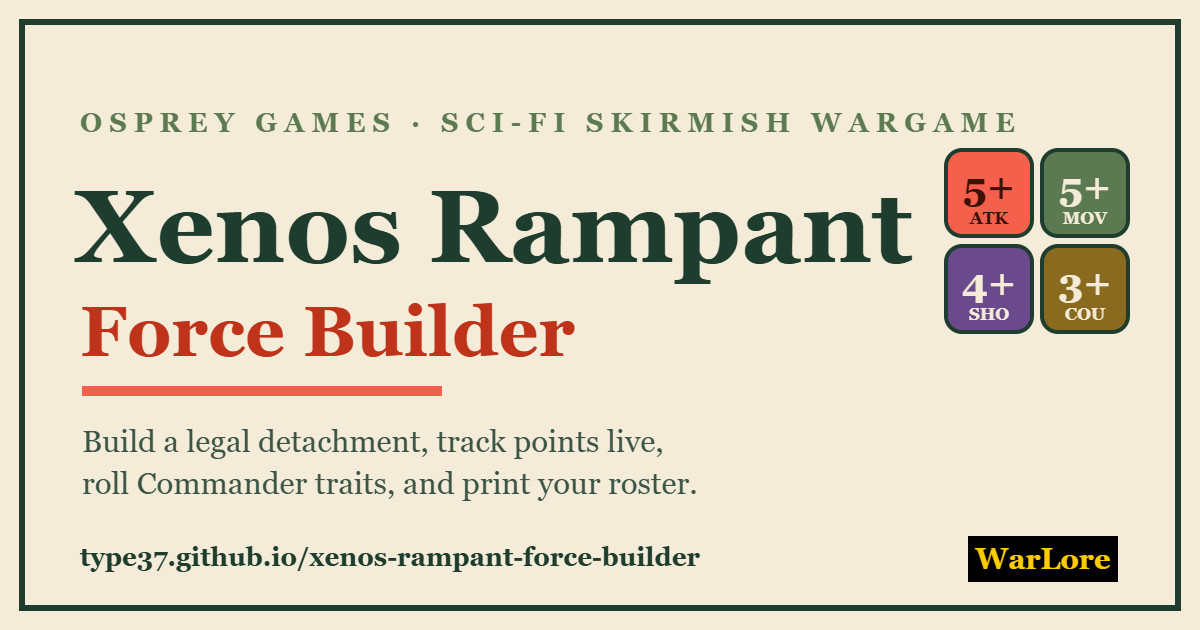
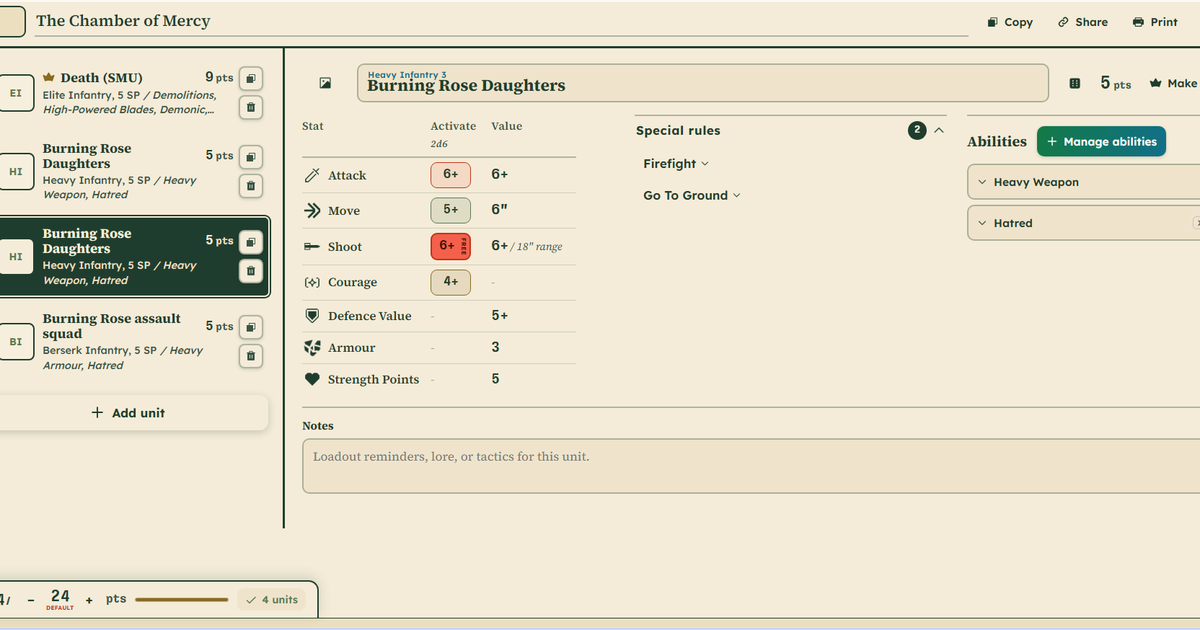
Fix Anvil preset images path; trim/zoom emblem picker; offer book collections
- Move the four Anvil detachment images to public/anvil/ so the paths the app
  builds actually resolve; the preset cards showed empty boxes before.
- Emblem picker: remove nine emblems, zoom the icons about 2x, drop the hover
  tooltips, and make the picker taller so the full set scrolls.
- "Save to setting" now offers the five rulebook genre settings (Weird War,
  Urban Fantasy, Five Minutes, Post-Apocalypse, Space Opera) as ready collections
  alongside any you have already used.

Changed region(s): [[0.0, 0.0, 1.0, 1.0], [0.5242, 0.2413, 0.5858, 0.2714]]

diff --git a/src/App.jsx b/src/App.jsx
@@ -143,6 +143,8 @@ import {
 import { SETTINGS } from "./premade.js";
 /* settings flagged hidden or comingSoon are wired up but kept out of the preset picker */
 const PRESET_SETTINGS = SETTINGS.filter((s) => !s.hidden && !s.comingSoon);
+/* the rulebook's genre settings, offered as ready-made collections to save into */
+const BOOK_COLLECTIONS = SETTINGS.filter((s) => !["anvil", "grimdark"].includes(s.id)).map((s) => s.name.split(":")[0]);
 import { ALL_GENRES, randomName } from "./factions.js";
 import { RULES_REFERENCE, RULES_CATS } from "./rules.js";
 
@@ -177,12 +179,10 @@ const Sword = mk(icSword), Move = mk(icMove), Shoot = mk(icShoot), Fire = mk(icF
 const DETACH_ICON_LIST = [
   { id: "crossed-swords", C: mk(giCrossedSwords) }, { id: "spartan-helmet", C: mk(giSpartan) },
   { id: "eagle-emblem", C: mk(giEagle) }, { id: "checked-shield", C: mk(giCheckedShield) },
-  { id: "spiked-shield", C: mk(giSpikedShield) }, { id: "shield-echoes", C: mk(giShieldEchoes) },
   { id: "skull-crossed-bones", C: mk(giSkullCross) }, { id: "death-skull", C: mk(giDeathSkull) },
   { id: "crown", C: mk(giCrown) }, { id: "laurel-crown", C: mk(giLaurel) },
   { id: "wolf-head", C: mk(giWolf) }, { id: "dragon-head", C: mk(giDragon) },
-  { id: "alien-bug", C: mk(giAlien2) }, { id: "robot-golem", C: mk(giRobot) },
-  { id: "battle-tank", C: mk(giTank) }, { id: "rocket-thruster", C: mk(giRocket) },
+  { id: "battle-tank", C: mk(giTank) },
   { id: "crosshair", C: mk(giCrosshair) }, { id: "biohazard", C: mk(giBiohazard) },
   { id: "star-formation", C: mk(giStars) }, { id: "mailed-fist", C: mk(giFist) },
   { id: "angel-wings", C: mk(giWings) }, { id: "gears", C: mk(giGears) },
@@ -194,11 +194,10 @@ const DETACH_ICON_LIST = [
   { id: "elf-helmet", C: mk(giElfHelm) }, { id: "knight-banner", C: mk(giKnightBanner) },
   { id: "mounted-knight", C: mk(giMountedKnight) }, { id: "crowned-skull", C: mk(giCrownedSkull) },
   { id: "visored-helm", C: mk(giVisor) }, { id: "barbute", C: mk(giBarbute) },
-  { id: "cultist", C: mk(giCultist) }, { id: "gooey-daemon", C: mk(giDaemon) },
   { id: "alien-fire", C: mk(giAlienFire) }, { id: "alien-stare", C: mk(giAlienStare) },
-  { id: "cyborg-face", C: mk(giCyborg) }, { id: "spiky-explosion", C: mk(giExplosion) },
+  { id: "spiky-explosion", C: mk(giExplosion) },
   { id: "crossed-pistols", C: mk(giPistols) }, { id: "wolf-howl", C: mk(giWolfHowl) },
-  { id: "raven", C: mk(giRaven) }, { id: "bat-mask", C: mk(giBatMask) },
+  { id: "raven", C: mk(giRaven) },
   { id: "spider-alt", C: mk(giSpider) }, { id: "hydra", C: mk(giHydra) },
   { id: "tiger-head", C: mk(giTiger) },
   { id: "mdi-skull", C: mk(miSkull) }, { id: "mdi-crosshair", C: mk(miCrosshair) },
@@ -949,7 +948,7 @@ function IconPickerModal({ onPick, onUpload, onClose }) {
   }, [onClose]);
   return (
     <div className="xr-modal-backdrop" onClick={onClose}>
-      <div className="xr-modal xr-modal-narrow" role="dialog" aria-modal="true" aria-label="Choose an emblem" onClick={(e) => e.stopPropagation()}>
+      <div className="xr-modal xr-modal-narrow xr-modal-tall" role="dialog" aria-modal="true" aria-label="Choose an emblem" onClick={(e) => e.stopPropagation()}>
         <div className="xr-modal-head">
           <span className="xr-modal-title"><Image size={20} /> Choose an emblem</span>
           <button className="xr-iconbtn" onClick={onClose} aria-label="Close"><XIc size={20} /></button>
@@ -958,8 +957,8 @@ function IconPickerModal({ onPick, onUpload, onClose }) {
           <button className="xr-btn xr-iconpick-upload" onClick={onUpload}><Image size={18} /> Upload your own picture</button>
           <div className="xr-iconpick-grid">
             {DETACH_ICONS.map(({ id, C }) => (
-              <button key={id} className="xr-iconpick-cell" onClick={() => onPick(id)} title={id.replace(/-/g, " ")} aria-label={id.replace(/-/g, " ")}>
-                <C size={30} />
+              <button key={id} className="xr-iconpick-cell" onClick={() => onPick(id)} aria-label="Emblem">
+                <C size={52} />
               </button>
             ))}
           </div>
@@ -987,7 +986,7 @@ function NewArmyModal({ onCreate, onClose, collections = [] }) {
   const roll = () => setName(randomName(ALL_NAMES, name));
   const create = () => onCreate({ name: name.trim(), budget, description: desc.trim(), image: image || undefined, icon: icon || undefined, collection: collection.trim() || undefined });
   const current = { image, icon };
-  const suggestions = [...new Set(collections.filter(Boolean))];
+  const suggestions = [...new Set([...collections.filter(Boolean), ...BOOK_COLLECTIONS])];
   return (
     <div className="xr-modal-backdrop" onClick={onClose}>
       <div className="xr-modal xr-modal-narrow" role="dialog" aria-modal="true" aria-label="New detachment" onClick={(e) => e.stopPropagation()}>
@@ -2963,8 +2962,9 @@ const CSS = `
 .xr-coll-chip.on{background:var(--ink);border-color:var(--ink);color:var(--cream);}
 /* emblem picker */
 .xr-iconpick-upload{width:100%;justify-content:center;margin-bottom:14px;}
-.xr-iconpick-grid{display:grid;grid-template-columns:repeat(auto-fill,minmax(66px,1fr));gap:9px;}
+.xr-iconpick-grid{display:grid;grid-template-columns:repeat(auto-fill,minmax(84px,1fr));gap:10px;}
 .xr-iconpick-cell{display:flex;align-items:center;justify-content:center;aspect-ratio:1;color:var(--ink);background:var(--paper-2);border:2px solid var(--ink-30);border-radius:11px;transition:transform .12s,border-color .12s,background .12s;}
+.xr-iconpick-cell svg{width:74%;height:74%;}
 .xr-iconpick-cell:hover{border-color:var(--brand-deep-blue);background:var(--paper-3);transform:translateY(-2px);}
 /* chosen-badge glyph rendering inside the detachment image slots */
 .xr-dicon-glyph{display:flex;align-items:center;justify-content:center;color:var(--ink);background:var(--paper-3);}